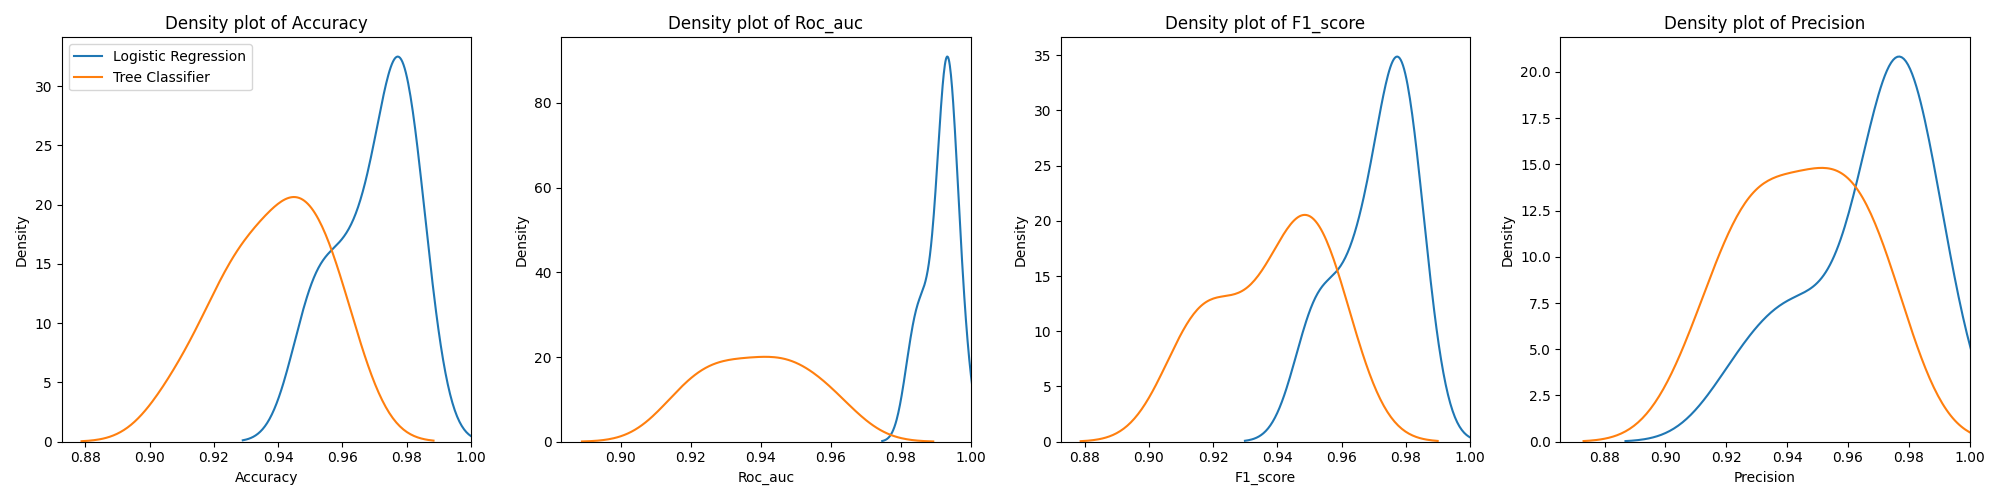
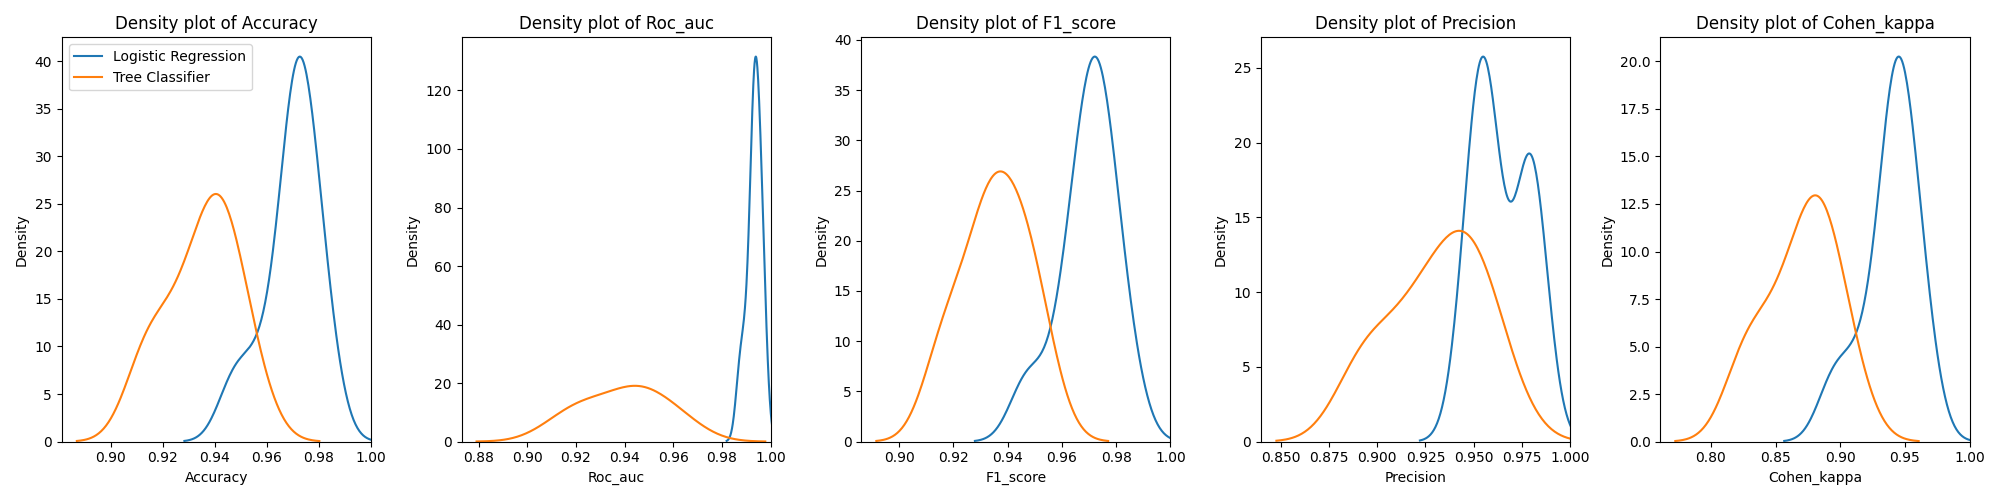
pridana cohen kappa do plotu metric density

diff --git a/t8_cv7/machine_learning/machine_learning/main.py b/t8_cv7/machine_learning/machine_learning/main.py
@@ -33,7 +33,7 @@ def main():
 
     # Plot the results using the Plotter class
     plotter = Plotter()
-    plotter.plot_metric_density(results, metrics=('accuracy', 'roc_auc', 'f1_score', 'precision'))
+    plotter.plot_metric_density(results, metrics=('accuracy', 'roc_auc', 'f1_score', 'precision', 'cohen_kappa'))
     plotter.plot_evaluation_metric_over_replications(
         experiment.results.groupby('model')['accuracy'].apply(list).to_dict(),
         'Accuracy per Replication and Average Accuracy', 'Accuracy')
